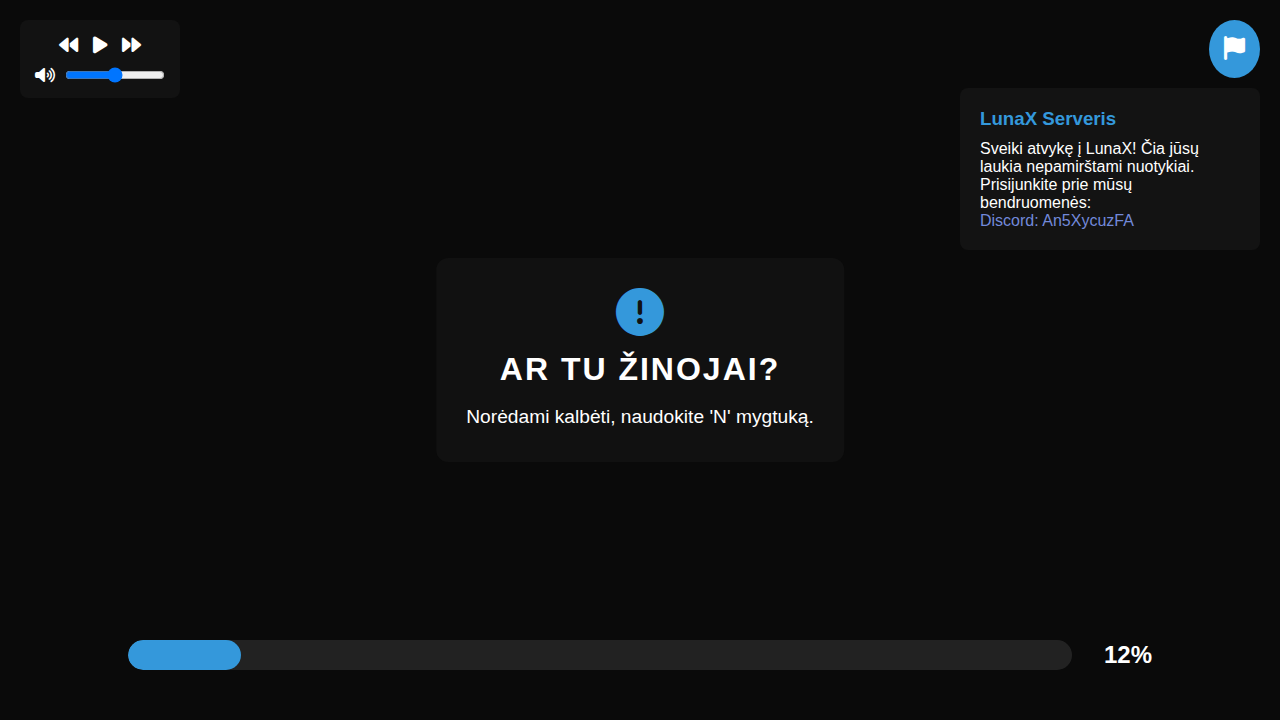
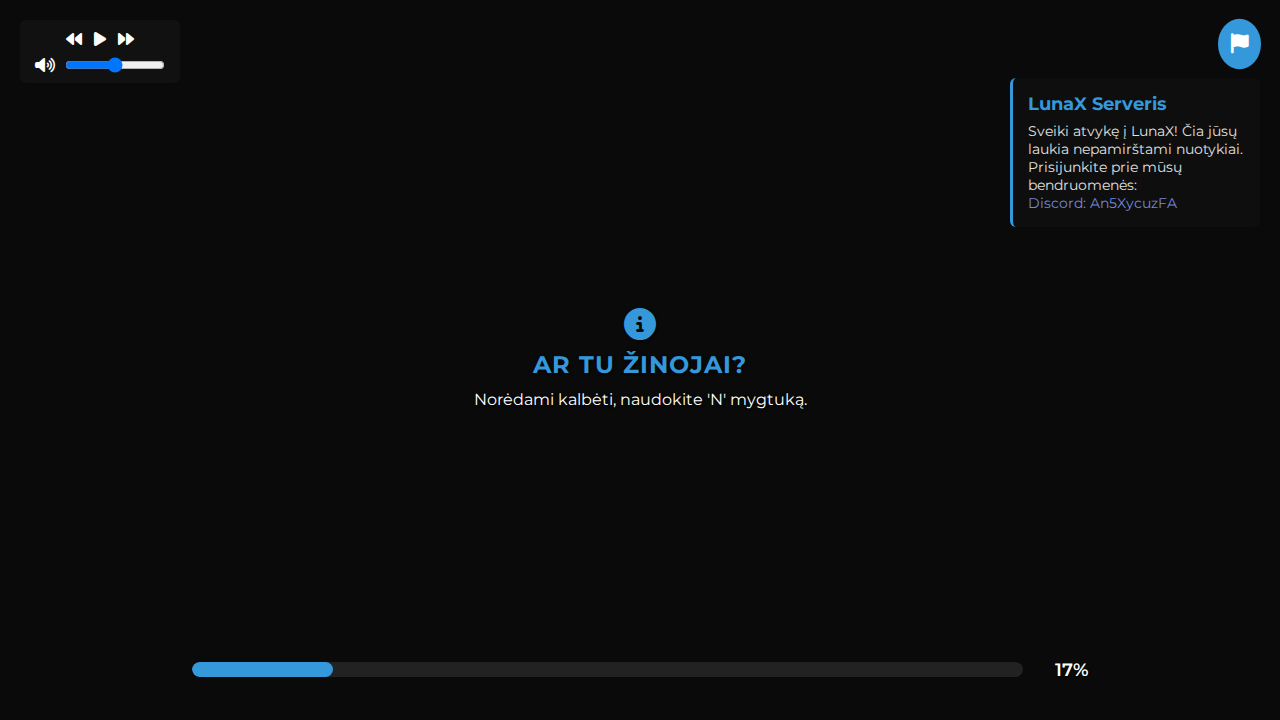
feat: refine loading screen design and layout
Updated the vata-LodingscreanV2 custom loading screen UI based on feedback:
- Changed font to Montserrat.
- Reduced sizes of icons, music player controls, and texts.
- Removed the dark background from the "Did you know?" section and added text shadow for better visibility.
- Improved the flag icon animation and server description design.
- Reduced the loading bar height and percentage text size.

diff --git a/vata-LodingscreanV2/style.css b/vata-LodingscreanV2/style.css
@@ -2,7 +2,7 @@
     margin: 0;
     padding: 0;
     box-sizing: border-box;
-    font-family: 'Segoe UI', Tahoma, Geneva, Verdana, sans-serif;
+    font-family: 'Montserrat', sans-serif;
 }
 
 body, html {
@@ -31,16 +31,16 @@ body, html {
     z-index: 10;
     display: flex;
     flex-direction: column;
-    gap: 10px;
-    background: rgba(20, 20, 20, 0.8);
-    padding: 15px;
-    border-radius: 8px;
+    gap: 8px;
+    background: rgba(20, 20, 20, 0.7);
+    padding: 10px 15px;
+    border-radius: 6px;
     color: white;
 }
 
 .controls {
     display: flex;
-    gap: 15px;
+    gap: 12px;
     justify-content: center;
 }
 
@@ -48,7 +48,7 @@ body, html {
     background: none;
     border: none;
     color: white;
-    font-size: 1.2rem;
+    font-size: 1rem;
     cursor: pointer;
     transition: color 0.3s;
 }
@@ -79,31 +79,34 @@ body, html {
 }
 
 #flagBtn {
-    background: rgba(20, 20, 20, 0.8);
+    background: rgba(20, 20, 20, 0.7);
     border: none;
     color: white;
-    font-size: 1.5rem;
-    padding: 15px;
+    font-size: 1.2rem;
+    padding: 12px;
     border-radius: 50%;
     cursor: pointer;
-    transition: background 0.3s;
+    transition: background 0.3s, transform 0.2s;
 }
 
 #flagBtn:hover {
     background: #3498db;
+    transform: scale(1.05);
 }
 
 #serverDescription {
     margin-top: 10px;
-    background: rgba(20, 20, 20, 0.9);
-    color: white;
-    padding: 20px;
-    border-radius: 8px;
-    width: 300px;
+    background: rgba(15, 15, 15, 0.85);
+    color: #e0e0e0;
+    padding: 15px;
+    border-radius: 6px;
+    width: 250px;
+    font-size: 0.9rem;
     text-align: left;
     transition: opacity 0.3s ease, transform 0.3s ease;
     opacity: 1;
     transform: translateY(0);
+    border-left: 3px solid #3498db;
 }
 
 #serverDescription.hidden {
@@ -114,7 +117,8 @@ body, html {
 
 #serverDescription h3 {
     color: #3498db;
-    margin-bottom: 10px;
+    margin-bottom: 8px;
+    font-size: 1.1rem;
 }
 
 /* DID YOU KNOW */
@@ -126,44 +130,45 @@ body, html {
     z-index: 10;
     text-align: center;
     color: white;
-    background: rgba(20, 20, 20, 0.7);
-    padding: 30px;
-    border-radius: 12px;
-    min-width: 400px;
-    max-width: 600px;
+    background: transparent;
+    padding: 20px;
+    min-width: 300px;
+    max-width: 500px;
+    text-shadow: 1px 1px 3px rgba(0, 0, 0, 0.8);
 }
 
 .did-you-know h2 {
-    font-size: 2rem;
-    margin-bottom: 15px;
+    font-size: 1.5rem;
+    margin-bottom: 10px;
     text-transform: uppercase;
-    letter-spacing: 2px;
+    letter-spacing: 1px;
+    color: #3498db;
 }
 
 .did-you-know p {
-    font-size: 1.2rem;
-    line-height: 1.5;
+    font-size: 1rem;
+    line-height: 1.4;
     transition: opacity 0.5s ease;
 }
 
 /* LOADING BAR */
 .loading-container {
     position: absolute;
-    bottom: 50px;
+    bottom: 40px;
     left: 50%;
     transform: translateX(-50%);
-    width: 80%;
+    width: 70%;
     z-index: 10;
     display: flex;
     align-items: center;
-    gap: 20px;
+    gap: 15px;
 }
 
 .loading-bar-wrapper {
     flex-grow: 1;
-    height: 30px;
+    height: 15px;
     background: rgba(255, 255, 255, 0.1);
-    border-radius: 15px;
+    border-radius: 8px;
     overflow: hidden;
 }
 
@@ -171,14 +176,15 @@ body, html {
     width: 0%;
     height: 100%;
     background-color: #3498db; /* Blue color, NO box-shadow as requested */
-    border-radius: 15px;
+    border-radius: 8px;
     transition: width 0.2s ease;
 }
 
 .loading-percentage {
     color: white;
-    font-size: 1.5rem;
-    font-weight: bold;
-    min-width: 60px;
+    font-size: 1.1rem;
+    font-weight: 600;
+    min-width: 50px;
     text-align: right;
+    text-shadow: 1px 1px 2px rgba(0, 0, 0, 0.8);
 }

diff --git a/vata-LodingscreanV2/index.html b/vata-LodingscreanV2/index.html
@@ -4,6 +4,9 @@
     <meta charset="UTF-8">
     <meta name="viewport" content="width=device-width, initial-scale=1.0">
     <title>vata-LodingscreanV2</title>
+    <link rel="preconnect" href="https://fonts.googleapis.com">
+    <link rel="preconnect" href="https://fonts.gstatic.com" crossorigin>
+    <link href="https://fonts.googleapis.com/css2?family=Montserrat:wght@400;600;700&display=swap" rel="stylesheet">
     <link rel="stylesheet" href="style.css">
     <!-- FontAwesome for icons -->
     <link rel="stylesheet" href="https://cdnjs.cloudflare.com/ajax/libs/font-awesome/6.4.0/css/all.min.css">
@@ -36,7 +39,7 @@
 
     <!-- Did You Know? (Center) -->
     <div class="did-you-know">
-        <i class="fas fa-exclamation-circle fa-3x" style="color: #3498db; margin-bottom: 15px;"></i>
+        <i class="fas fa-info-circle fa-2x" style="color: #3498db; margin-bottom: 10px;"></i>
         <h2>Ar tu žinojai?</h2>
         <p id="factText">Šis serveris startavo neseniai!</p>
     </div>
